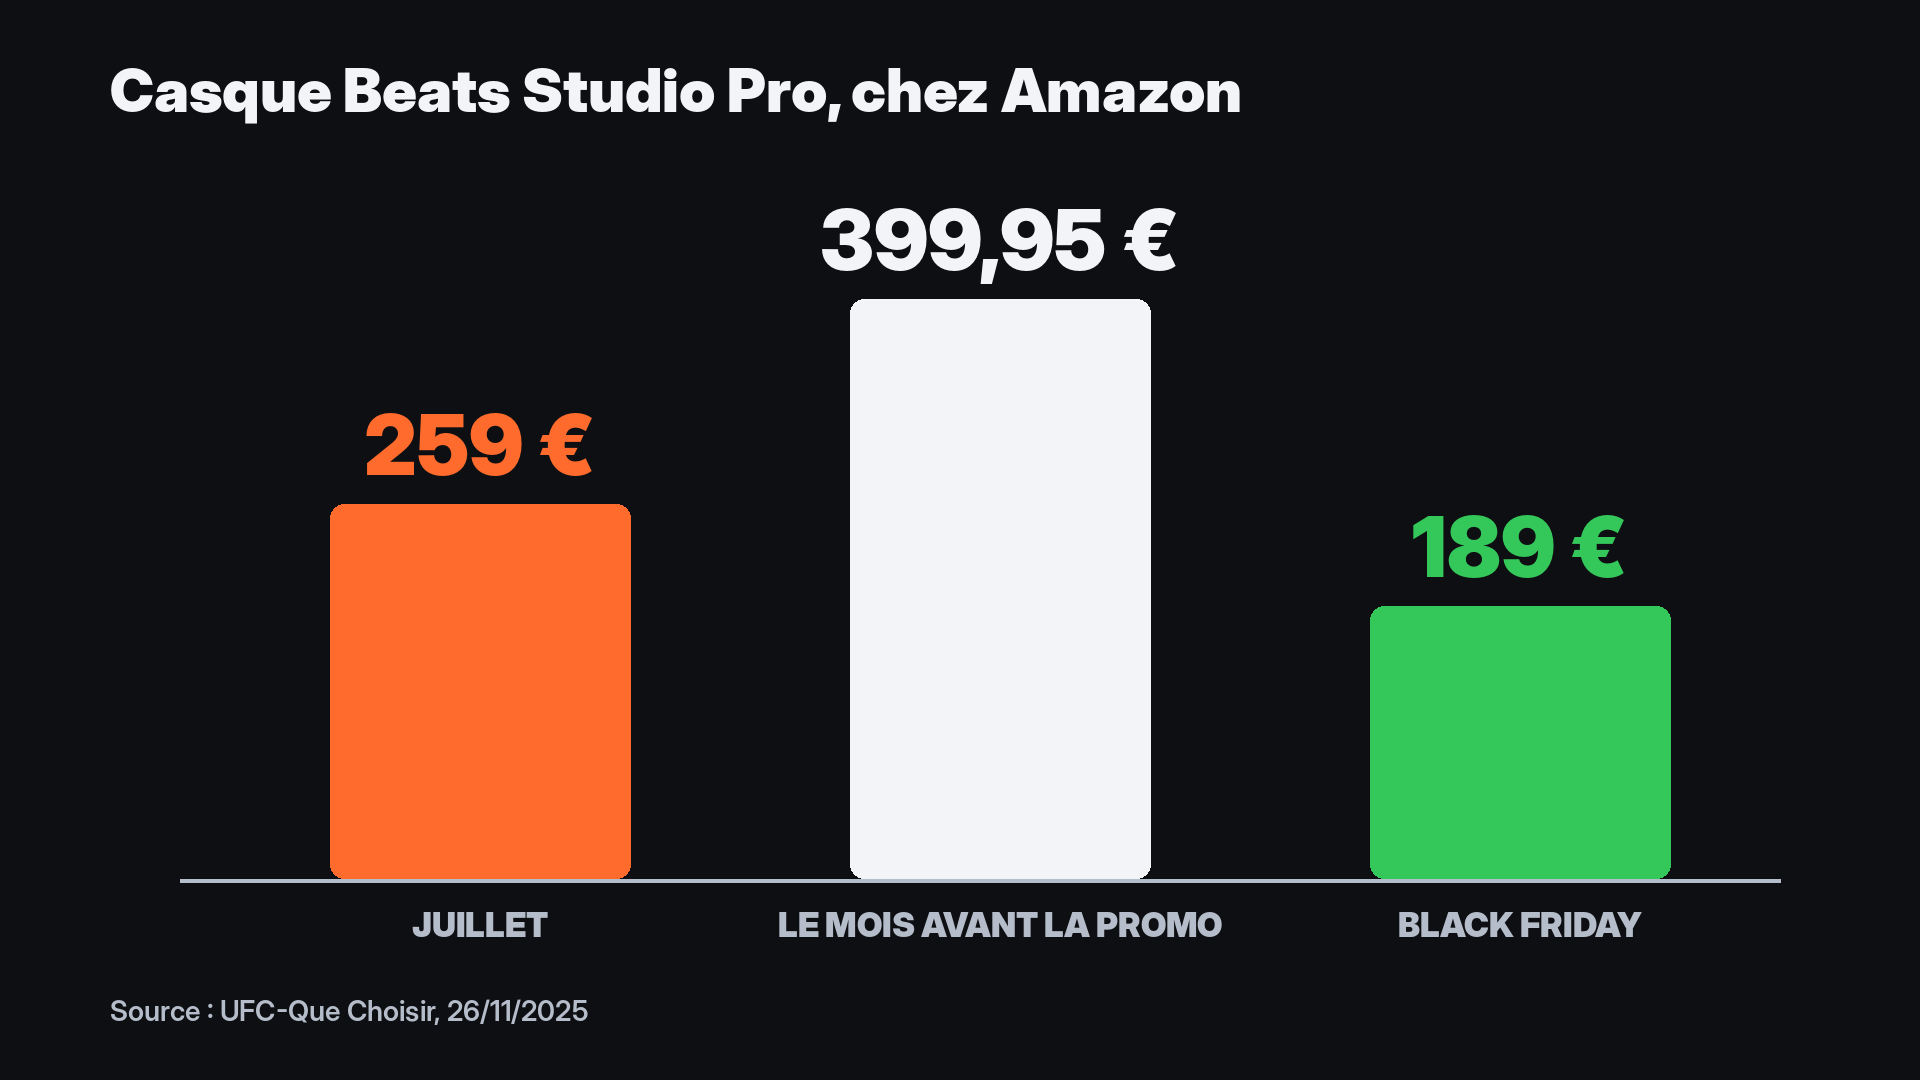
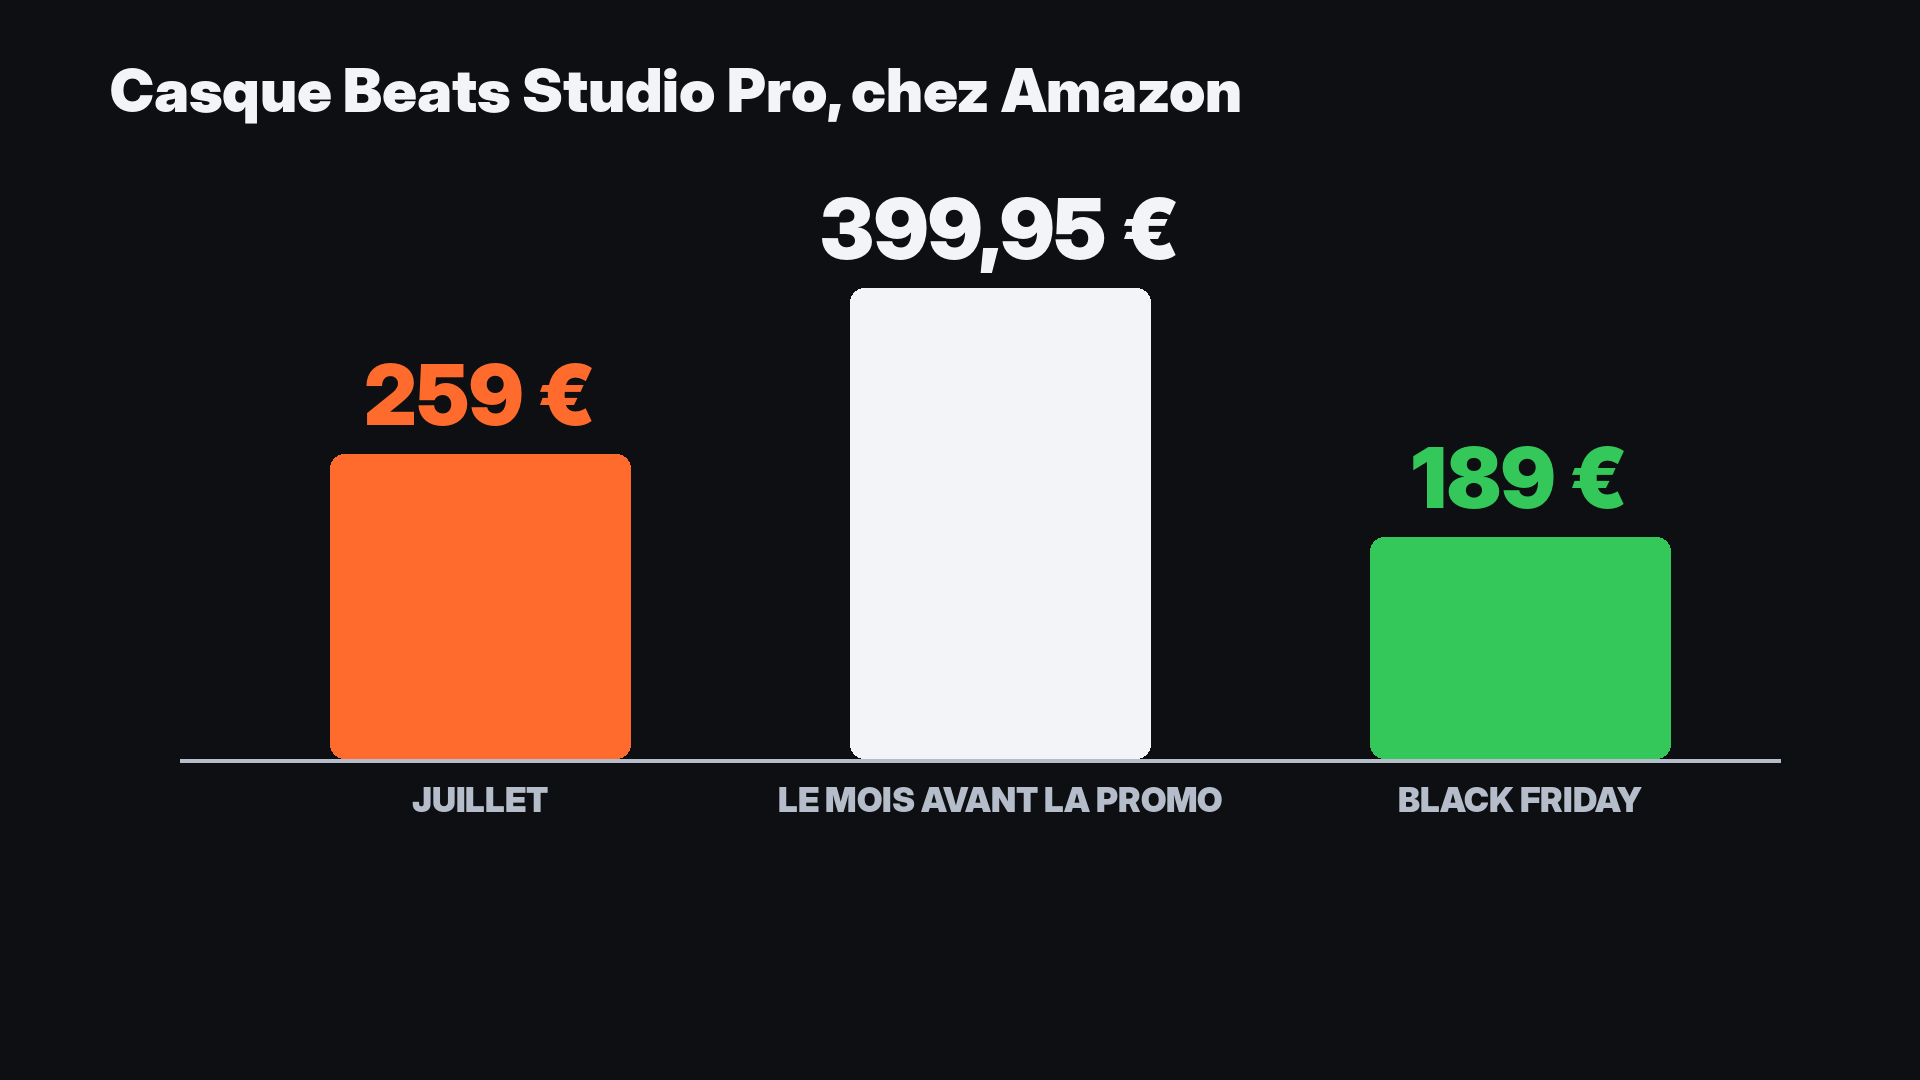
Black Friday : rendu final (en-têtes de documents, graphiques au-dessus des sous-titres)
Claude-Session: https://claude.ai/code/session_01CBCMXPEoADXpVSXQ4FneuT

diff --git a/videos/black-friday/_workspace/visuels.py b/videos/black-friday/_workspace/visuels.py
@@ -106,13 +106,23 @@ def sauver(im, nom):
     im.save(os.path.join(OUT, nom))
 
 
+ENTETES = {"ufc": ("ufc_bf2025_0.png", (396, 236, 1100, 310)), "ue": ("commission_ue_0.png", (220, 296, 1740, 432))}
+
+
 def preuve(nom_sortie, capture, boite, titre=None, hl=(), flou=(), caches=(), stamp=None, chips=None, lmax=1840, hmax=860, cx=None):
     src = preparer(capture, hl, flou, caches)
     base = fond(cap(capture).crop(boite))
     if chips is not None:
         lmax, cx = 1300, 730
     c, m = papier(src, boite, lmax, hmax)
-    poser(base, c, m, cx or W // 2)
+    bande = c.height < 420 and titre is not None
+    if bande:  # une bande de texte seule flotte dans le vide : on pose le titre du document au-dessus
+        e = ENTETES["ue" if "europ" in titre.lower() else "ufc"]
+        ce, me = papier(cap(e[0]), e[1], 1300, 230, 18)
+        poser(base, ce, me, W // 2, 300)
+        poser(base, c, m, W // 2, 300 + ce.height // 2 + 70 + c.height // 2)
+    else:
+        poser(base, c, m, cx or W // 2)
     if titre:
         bandeau(base, titre)
     if chips is not None:
@@ -199,15 +209,17 @@ preuve("ue_10.png", UE, (296, 970, 1250, 1040), titre="Commission européenne, 2
 preuve("signalconso.png", "signalconso_0.png", (300, 20, 1640, 900))
 
 
+BASE = 760  # sous cette ligne : zone des sous-titres
+
+
 # ── Graphiques qui se construisent ────────────────────────────────────────────
 def axes(d, titre, source):
     d.text((110, 90), titre, font=F(60), fill=BLANC, anchor="lm")
-    d.line((180, 880, 1780, 880), fill=GRIS, width=4)
-    d.text((110, 1010), "Source : " + source, font=F(28, False), fill=GRIS, anchor="lm")
+    d.line((180, BASE, 1780, BASE), fill=GRIS, width=4)
 
 
 def y_de(v, vmax):
-    return 880 - int(640 * v / vmax)
+    return BASE - int(520 * v / vmax)
 
 
 # Faille des 30 jours : l'aspirateur (279 € en juillet, 399 € barré, 249 € le jour J)
@@ -219,8 +231,8 @@ for etape in range(1, 6):
     axes(d, "Aspirateur Dyson V8 Advanced, chez Boulanger", "UFC-Que Choisir, 26/11/2025")
     n = min(etape, 4)
     if etape >= 3:  # fenêtre légale des 30 jours
-        d.rounded_rectangle((1010, 200, 1790, 878), 18, fill=(30, 40, 52))
-        d.text((1400, 846), "LES 30 JOURS QUE REGARDE LA LOI", font=F(32), fill=BLEU, anchor="mm")
+        d.rounded_rectangle((1010, 170, 1790, BASE - 2), 18, fill=(30, 40, 52))
+        d.text((1400, BASE - 44), "LES 30 JOURS QUE REGARDE LA LOI", font=F(32), fill=BLEU, anchor="mm")
     xy = [(XS[i], y_de(PTS[i][1], 440)) for i in range(n)]
     if len(xy) > 1:
         d.line(xy, fill=BLANC, width=10, joint="curve")
@@ -229,7 +241,7 @@ for etape in range(1, 6):
         d.ellipse((x - 20, y - 20, x + 20, y + 20), fill=ORANGE if heros else BLANC)
         lab = f"{PTS[i][1]} €" + (" barré" if i == 2 else "")
         d.text((x, y - 62), lab, font=F(64), fill=ORANGE if heros else BLANC, anchor="mm")
-        d.text((x, 925), PTS[i][0], font=F(34), fill=GRIS, anchor="mm")
+        d.text((x, BASE + 40), PTS[i][0], font=F(34), fill=GRIS, anchor="mm")
     if etape >= 4:
         d.text((1620, y_de(249, 440) + 70), "affiché −38 %", font=F(44), fill=ROUGE, anchor="mm")
     if etape == 5:
@@ -250,10 +262,11 @@ for k, visibles in enumerate(ORDRE, 1):
         x = 330 + i * 520
         if i in visibles:
             y = y_de(v, 440)
-            d.rounded_rectangle((x, y, x + 300, 878), 14, fill=coul)
+            d.rounded_rectangle((x, y, x + 300, BASE - 2), 14, fill=coul)
             d.text((x + 150, y - 60), (f"{v:.2f}".replace(".", ",") if v % 1 else str(int(v))) + " €", font=F(84), fill=coul, anchor="mm")
-        d.text((x + 150, 925), lab if i in visibles else "?", font=F(34), fill=GRIS, anchor="mm")
+        d.text((x + 150, BASE + 40), lab if i in visibles else "?", font=F(34), fill=GRIS, anchor="mm")
     if k == 1:
-        d.text((960, 190), "Hausse du prix en septembre", font=F(52), fill=ROUGE, anchor="mm")
+        d.text((1180, 440), "Hausse du prix", font=F(50), fill=ROUGE, anchor="lm")
+        d.text((1180, 500), "en septembre", font=F(50), fill=ROUGE, anchor="lm")
     sauver(im, f"chrono{k}.png")
 print(len(os.listdir(OUT)), "visuels")
